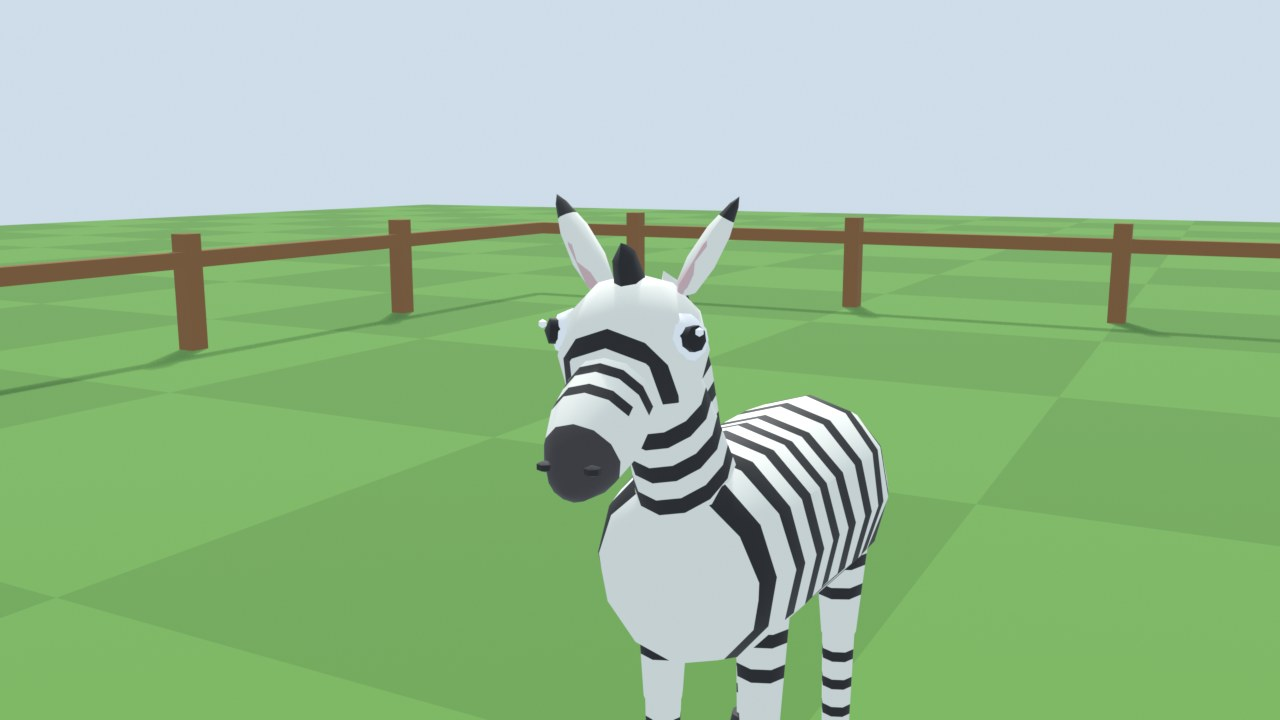
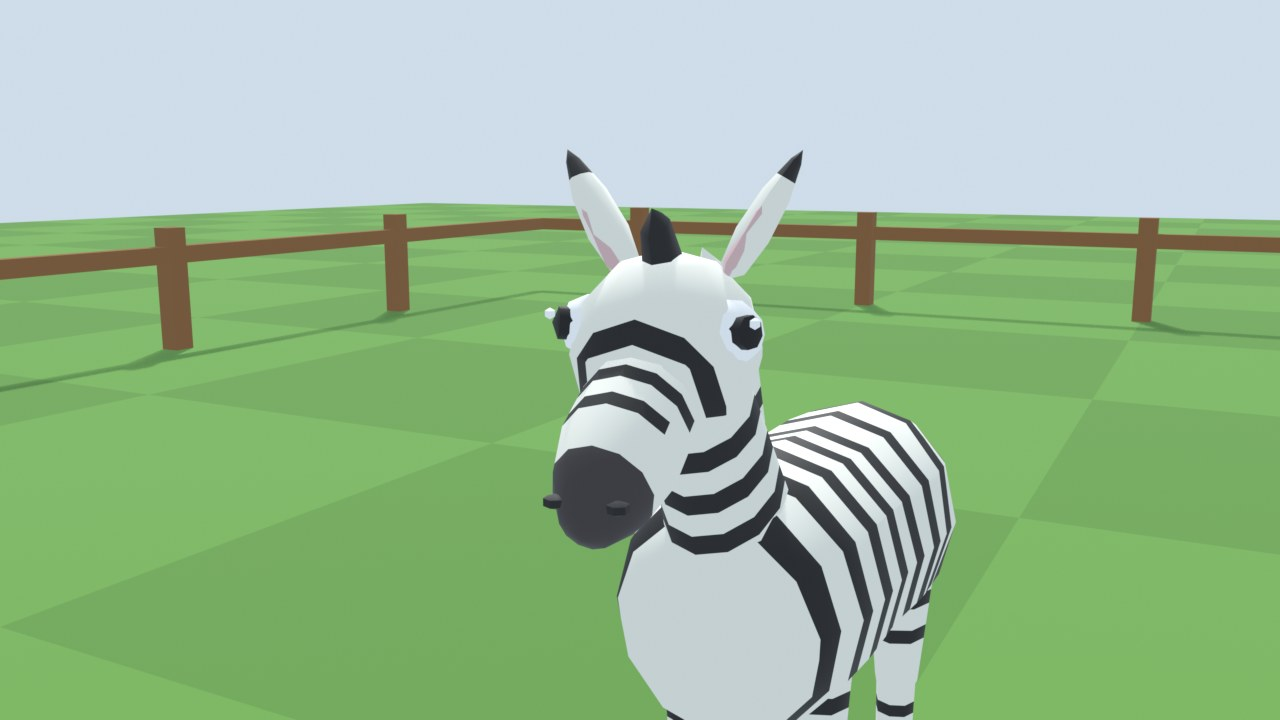
Add an expressive elephant to zoo-animals with a jointed trunk (#599)
The zoo_animals recipe gains a cartoon elephant: a big round body, column
legs with cream toenails, a domed head with tusks, fanned pink-fronted ears
and a two-joint trunk (trunk, trunk_tip), a species joint the profile allows.
Its feed clip reaches the trunk to the grass and curls food to the mouth;
rest lies on folded legs with the trunk on the grass. It ships as
zoo.animal.elephant/expressive.

The review face shot is now framed by the head mesh's own size, so every
animal's face fills the frame alike. The Blender suite accepts each
species' own extra joints.

Changed region(s): [[0.0, 0.2139, 1.0, 1.0], [0.0, 0.5194, 0.0625, 0.55]]

diff --git a/test/blender/zoo-animals/zoo-animals.test.ts b/test/blender/zoo-animals/zoo-animals.test.ts
@@ -1,5 +1,5 @@
 // The zoo-animals release (#128, #589; docs/zoo-animals.md): Zoo's pinned zebra and giraffe stay as authored, and
-// the expressive zebra, giraffe and tiger built by adapters/blender/zoo_animals.py join them as the `expressive` variant, with in-place
+// the expressive zebra, giraffe, tiger and elephant built by adapters/blender/zoo_animals.py join them as the `expressive` variant, with in-place
 // idle, walk, feed and rest clips whose legs swing about the animal's side axis. The build replays to the same tar.
 // It skips unless ASSET_TOOLING_BLENDER names Blender 5.2.2 and the two canonical Zoo sources are hydrated.
 import test from "node:test";
@@ -35,14 +35,16 @@ test("the expressive spec runs the packaged recipe for one species, with no othe
   assert.deepEqual(spec.parameters, { blenderVersion: "5.2.2", arguments: { schemaVersion: 1, species: "zebra" } });
   assert.deepEqual(Object.keys(spec.inputs), ["script"]);
   assert.equal(spec.assetId, "zoo.animal.zebra.expressive");
-  assert.deepEqual(ZOO_EXPRESSIVE_ANIMALS.map((entry) => entry.key), ["zoo.animal.zebra", "zoo.animal.giraffe", "zoo.animal.tiger"]);
+  assert.deepEqual(ZOO_EXPRESSIVE_ANIMALS.map((entry) => entry.key), ["zoo.animal.zebra", "zoo.animal.giraffe", "zoo.animal.tiger", "zoo.animal.elephant"]);
 });
 
-/** Per animal: its full-size height and length (m), its triangle budget and one colour of its coat (linear COLOR_0). */
-const EXPECTED: Record<string, { height: [number, number]; length: [number, number]; triangles: number; coat: string; coatName: string }> = {
+/** Per animal: its full-size height and length (m), its triangle budget, one colour of its coat (linear COLOR_0) and any
+ * joints of its own beyond the shared ones. */
+const EXPECTED: Record<string, { height: [number, number]; length: [number, number]; triangles: number; coat: string; coatName: string; joints?: string[] }> = {
   "zoo.animal.zebra": { height: [1.4, 1.9], length: [1.4, 2], triangles: 4500, coat: "0.01,0.01", coatName: "the black stripes" },
   "zoo.animal.giraffe": { height: [3.2, 3.9], length: [1.9, 2.6], triangles: 6000, coat: "0.64,0.23", coatName: "the tan patches" },
   "zoo.animal.tiger": { height: [1.0, 1.5], length: [1.7, 2.5], triangles: 5500, coat: "0.91,0.23", coatName: "the orange coat" },
+  "zoo.animal.elephant": { height: [1.9, 2.7], length: [2.6, 3.5], triangles: 5000, coat: "0.32,0.35", coatName: "the grey skin", joints: ["trunk", "trunk_tip"] },
 };
 
 /** The rotation axis of a quaternion in the leg's channel, or null when it barely turns. */
@@ -54,7 +56,8 @@ function axisOf([x, y, z]: number[]): number[] | null {
 function checkExpressive(document: Document, label: string) {
   const observations = assertQuadrupedRigid(document, label);
   const gltf = document.getRoot();
-  assert.deepEqual(gltf.listNodes().map((node) => node.getName()).sort(), JOINTS, `${label}: the joints`);
+  const expected = EXPECTED[label.split("/")[0]!]!;
+  assert.deepEqual(gltf.listNodes().map((node) => node.getName()).sort(), [...JOINTS, ...(expected.joints ?? [])].sort(), `${label}: the joints`);
   assert.deepEqual(gltf.listAnimations().map((clip) => clip.getName()).sort(), CLIPS, `${label}: idle, walk, feed and rest`);
   assert.deepEqual(gltf.listMaterials().map((material) => material.getName()), ["zoo-animal"], `${label}: one shared material`);
   assert.equal(gltf.listTextures().length, 0, `${label}: no textures`);
@@ -67,7 +70,6 @@ function checkExpressive(document: Document, label: string) {
     assert.equal(primitive.getMaterial()?.getAlphaMode(), "OPAQUE");
   }
   // coat colours, muzzle or nose, inner ear, hoof, eye white and pupil
-  const expected = EXPECTED[label.split("/")[0]!]!;
   assert.ok(palette.size >= 6, `${label}: COLOR_0 holds ${palette.size} colours`);
   assert.ok([...palette].some((colour) => colour.startsWith(expected.coat)), `${label}: COLOR_0 has ${expected.coatName}`);
   assert.ok(observations.triangles < expected.triangles, `${label}: ${observations.triangles} triangles`);
@@ -114,7 +116,7 @@ test("zoo-animals builds the old members unchanged and the expressive animals, r
     await verifyAssetBundleTar(await readFile(built.tar), { sha256: built.tarSha256, ref: built.exportRef });
     const manifest = (await verifyAssetBundle(built.bundleDir, built.exportRef, { profile: "gltf-resources-v1" })).manifest as GltfResourcesBundleManifest;
     assert.deepEqual(manifest.assets.map((item) => `${item.key}/${item.variant}`).sort(),
-      ["zoo.animal.giraffe/default", `zoo.animal.giraffe/${ZOO_EXPRESSIVE_VARIANT}`, `zoo.animal.tiger/${ZOO_EXPRESSIVE_VARIANT}`,
+      [`zoo.animal.elephant/${ZOO_EXPRESSIVE_VARIANT}`, "zoo.animal.giraffe/default", `zoo.animal.giraffe/${ZOO_EXPRESSIVE_VARIANT}`, `zoo.animal.tiger/${ZOO_EXPRESSIVE_VARIANT}`,
         "zoo.animal.zebra/default", `zoo.animal.zebra/${ZOO_EXPRESSIVE_VARIANT}`]);
 
     const descriptor = JSON.parse(await readFile(path.join(outDir, ZOO_ANIMALS_DESCRIPTOR_FILE), "utf8"));

diff --git a/scripts/build-zoo-animals.ts b/scripts/build-zoo-animals.ts
@@ -38,6 +38,7 @@ export const ZOO_EXPRESSIVE_ANIMALS = [
   { animal: "zebra", key: "zoo.animal.zebra", issue: 589 },
   { animal: "giraffe", key: "zoo.animal.giraffe", issue: 596 },
   { animal: "tiger", key: "zoo.animal.tiger", issue: 590 },
+  { animal: "elephant", key: "zoo.animal.elephant", issue: 599 },
 ] as const;
 export const ZOO_ANIMALS_RECIPE = "adapters/blender/zoo_animals.py";
 

diff --git a/adapters/blender/zoo_animals.py b/adapters/blender/zoo_animals.py
@@ -37,7 +37,7 @@ import bmesh
 import bpy
 from mathutils import Euler, Matrix, Quaternion, Vector
 
-SPECIES = ("zebra", "giraffe", "tiger")
+SPECIES = ("zebra", "giraffe", "tiger", "elephant")
 FPS = 30
 KEY_STEP = 2  # frames between keys; every key is linear
 SHARP_ANGLE = math.radians(50)
@@ -61,6 +61,10 @@ PALETTE = {
     "tiger-white": (0.98, 0.95, 0.9),
     "nose-pink": (0.9, 0.52, 0.55),
     "eye-amber": (0.95, 0.72, 0.18),
+    "elephant-grey": (0.6, 0.63, 0.7),
+    "elephant-dark": (0.43, 0.45, 0.52),
+    "toenail": (0.93, 0.9, 0.82),
+    "tusk": (0.98, 0.96, 0.88),
 }
 
 
@@ -554,7 +558,114 @@ def build_tiger(collection):
     return root
 
 
-BUILDERS = {"zebra": build_zebra, "giraffe": build_giraffe, "tiger": build_tiger}
+# ---------------------------------------------------------------- elephant
+
+ELEPHANT = {
+    "body": (0.0, 0.0, 1.35), "neck": (0.75, 0.0, 1.55), "tail": (-0.9, 0.0, 1.55),
+    "hips": {"leg_0": (-0.55, -0.36, 1.12), "leg_1": (-0.55, 0.36, 1.12), "leg_2": (0.55, -0.36, 1.15), "leg_3": (0.55, 0.36, 1.15)},
+    "upper": 0.5, "foot": 0.06,  # the foot pad's centre above the grass
+    "neck_dir": (1, 0, 0.4), "neck_length": 0.18,
+    "trunk": (0.4, 0, -0.18), "trunk_dirs": ((0.25, 0, -1), (0.3, 0, -1)), "trunk_lengths": (0.5, 0.45),
+}
+
+
+def build_elephant(collection):
+    g = ELEPHANT
+    root = bpy.data.objects.new("animal_root", None)
+    root.empty_display_size = 0.5
+    collection.objects.link(root)
+
+    # Body: a big round barrel, a little higher at the shoulders.
+    body = Part("body", g["body"])
+    barrel = [(0, -0.95), (0.4, -0.88), (0.6, -0.72), (0.7, -0.45), (0.72, -0.15), (0.72, 0.15), (0.73, 0.42), (0.66, 0.7),
+              (0.42, 0.88), (0, 0.95)]
+    body.lathe("elephant-grey", barrel, g["body"], direction=(1, 0, 0.06), scale=(0.9, 0.85, 1), segments=16)
+    body = body.finish(collection, root)
+
+    # Legs: thick columns on round feet with three cream toenails at the front.
+    for leg, hip in g["hips"].items():
+        front = leg in ("leg_2", "leg_3")
+        hip = Vector(hip)
+        upper = Part(leg, hip)
+        upper.lathe("elephant-grey", capsule(0.27, 0.22, g["upper"], cap=0.04), hip, segments=10)
+        upper = upper.finish(collection, body)
+        knee = hip - Vector((0, 0, g["upper"]))
+        lower = Part(f"{leg}_lower", knee)
+        lower.lathe("elephant-grey", capsule(0.22, 0.23, knee.z - 0.2, 2), knee, segments=10)  # its round end sits in the foot
+        lower.lathe("elephant-grey", ball(0.22, 3), knee, segments=10)  # a round knee
+        lower.lathe("elephant-dark", [(0, 0), (0.24, 0), (0.25, 0.04), (0.24, 0.11), (0, 0.11)], (knee.x, knee.y, 0.0), segments=12)
+        for k in (-1, 0, 1):
+            nail = Vector((knee.x + 0.21 * math.cos(math.radians(32 * k)), knee.y + 0.21 * math.sin(math.radians(32 * k)), 0.06))
+            lower.lathe("toenail", ball(0.065, 3), nail, scale=(0.7, 1.0, 0.8), segments=8)
+        lower.finish(collection, upper)
+
+    # Tail: a thin rope with a dark tuft.
+    tail = Part("tail", g["tail"])
+    tail.lathe("elephant-grey", capsule(0.045, 0.03, 0.55, 2), g["tail"], direction=(0.3, 0, 1), segments=7)
+    tail.lathe("elephant-dark", ball(0.06, 4), (-1.07, 0, 1.0), direction=(-0.3, 0, -1), scale=(0.8, 0.8, 1.7), segments=8)
+    tail.finish(collection, body)
+
+    # Neck: a short stub between the shoulders and the big head.
+    neck_dir = Vector(g["neck_dir"]).normalized()
+    n0 = Vector(g["neck"])
+    neck = Part("neck", n0)
+    neck.lathe("elephant-grey", capsule(0.48, 0.45, g["neck_length"], 3), n0, direction=-neck_dir, segments=12)
+    neck = neck.finish(collection, body)
+
+    # Head: big and domed, with small ivory tusks and a dark mouth line under the trunk.
+    hp = n0 + neck_dir * g["neck_length"]
+    head = Part("head", hp)
+    cranium = hp + Vector((0.25, 0, 0.12))
+    head.lathe("elephant-grey", ball(0.55, 7), cranium, scale=(0.9, 1.0, 0.95), segments=16)
+    head.lathe("elephant-grey", ball(0.3, 5), cranium + Vector((0.3, 0, -0.12)), scale=(0.9, 1.0, 0.9), segments=12)  # the cheeks
+    for side in (-1, 1):
+        root_t = cranium + Vector((0.42, side * 0.17, -0.25))
+        head.lathe("tusk", capsule(0.05, 0.02, 0.22, 2, cap=0.3), root_t, direction=-Vector((1, side * 0.2, 0.35)), segments=8)
+    head.lathe("elephant-dark", ball(0.07, 3), cranium + Vector((0.43, 0, -0.33)), scale=(0.8, 1.4, 0.4), segments=8)  # mouth
+    head = head.finish(collection, neck)
+
+    # Trunk: two joints, so it can sway, curl and lift food, with soft wrinkle rings and a darker tip.
+    t0 = cranium + Vector(g["trunk"])
+    d1, d2 = (Vector(d).normalized() for d in g["trunk_dirs"])
+    l1, l2 = g["trunk_lengths"]
+    trunk = Part("trunk", t0)
+    trunk.lathe("elephant-grey", capsule(0.17, 0.13, l1, 2, cap=0.5), t0, direction=-d1, segments=10)
+    trunk.paint("elephant-grey", "elephant-dark", [(t0 + d1 * (0.18 + 0.12 * k), d1, 0.018) for k in range(3)])
+    trunk = trunk.finish(collection, head)
+    t1 = t0 + d1 * l1
+    tip = Part("trunk_tip", t1)
+    tip.lathe("elephant-grey", capsule(0.13, 0.105, l2, 2, cap=0.5), t1, direction=-d2, segments=10)
+    tip.lathe("elephant-grey", ball(0.13, 4), t1, segments=10)
+    tip.paint("elephant-grey", "elephant-dark", [(t1 + d2 * (0.1 + 0.11 * k), d2, 0.016) for k in range(3)])
+    tip.lathe("elephant-dark", ball(0.12, 4), t1 + d2 * (l2 + 0.03), direction=d2, scale=(1, 1, 0.55), segments=10)
+    tip.finish(collection, trunk)
+
+    for side, name in ((1, "left"), (-1, "right")):
+        # big round ears fanned out to the side, their pink fronts facing forwards
+        base = cranium + Vector((-0.02, side * 0.42, 0.12))
+        ear = Part(f"ear_{name}", base)
+        normal = Vector((0.8, side * 0.45, 0.0)).normalized()
+        out = Vector((-0.45, side * 0.8, 0.0)).normalized()
+        centre = base + out * 0.36 + Vector((0, 0, -0.1))
+        ear.lathe("elephant-grey", ball(1.0, 5), centre, direction=normal, scale=(0.45, 0.45, 0.07), segments=14)
+        ear.lathe("elephant-grey", ball(1.0, 4), centre + Vector((0, 0, -0.22)) - out * 0.06, direction=normal,
+                  scale=(0.3, 0.3, 0.06), segments=12)  # the lower lobe
+        ear.lathe("ear-inner", ball(1.0, 4), centre + normal * 0.03 + Vector((0, 0, -0.04)), direction=normal,
+                  scale=(0.34, 0.34, 0.04), segments=12)
+        ear.finish(collection, head)
+
+        eye_c = cranium + Vector((0.4, side * 0.3, 0.1))
+        eye = Part(f"eye_{name}", eye_c)
+        look = Vector((1.0, side * 0.55, 0.05)).normalized()
+        eye.lathe("eye-white", ball(0.085, 4), eye_c, direction=look, scale=(1, 1, 0.8), segments=10)
+        eye.lathe("eye-pupil", ball(0.055, 3), eye_c + look * 0.05, direction=look, scale=(1, 1, 0.55), segments=10)
+        eye.lathe("eye-white", ball(0.016, 3), eye_c + look * 0.085 + Vector((0, 0, 0.025)), segments=6)
+        eye.finish(collection, head)
+
+    return root
+
+
+BUILDERS = {"zebra": build_zebra, "giraffe": build_giraffe, "tiger": build_tiger, "elephant": build_elephant}
 
 
 # ---------------------------------------------------------------- clips
@@ -587,8 +698,8 @@ def leg_cycle(u, front):
 
 
 # Lying down (rest): how far the body lowers, and the folded knee's centre above the grass, per species.
-LYING_DROP = {"zebra": -0.4, "giraffe": -1.1, "tiger": -0.3}
-KNEE_HEIGHT = {"zebra": 0.075, "giraffe": 0.1, "tiger": 0.14}
+LYING_DROP = {"zebra": -0.4, "giraffe": -1.1, "tiger": -0.3, "elephant": -0.6}
+KNEE_HEIGHT = {"zebra": 0.075, "giraffe": 0.1, "tiger": 0.14, "elephant": 0.26}
 
 
 def fold_legs(pose, hips, upper_length, drop, knee_height):
@@ -852,10 +963,114 @@ def tiger_rest(t, duration):
     return pose
 
 
+def ears_open(left, right=None):
+    """Elephant ears fanned forwards by ``left`` (and ``right``) radians: each turns about its root's vertical."""
+    return {"ear_left.r": (0, 0, -left), "ear_right.r": (0, 0, left if right is None else right)}
+
+
+def keyed(u, keys):
+    """Smoothly interpolate ``keys`` = [(u, value or tuple), ...] (ascending u in [0, 1], first and last equal)."""
+    for (u0, v0), (u1, v1) in zip(keys, keys[1:]):
+        if u0 <= u <= u1:
+            s = smooth((u - u0) / (u1 - u0)) if u1 > u0 else 1.0
+            return tuple(a + (b - a) * s for a, b in zip(v0, v1))
+    return keys[-1][1]
+
+
+def elephant_idle(t, duration):
+    w = 2 * math.pi * t / duration
+    blink = pulse(t, 4.1, 0.25)
+    flap = 0.5 - 0.5 * math.cos(2 * w)
+    pose = {
+        "body.t": (0, 0, 0.01 * (1 - math.cos(2 * w))),
+        "body.r": (math.radians(1.2) * math.sin(w), 0, 0),
+        "neck.r": (0, math.radians(2) * math.sin(w), 0),
+        "head.r": (math.radians(3) * math.sin(w), math.radians(-3) * math.sin(2 * w), math.radians(6) * math.sin(w + 0.5)),
+        # the trunk sways from side to side, its tip curling and uncurling
+        "trunk.r": (math.radians(12) * math.sin(w), math.radians(-6) * math.sin(2 * w), 0),
+        "trunk_tip.r": (math.radians(6) * math.sin(w - 0.6), math.radians(30) * (0.5 + 0.5 * math.sin(2 * w - 1.0)), 0),
+        "eye_left.s": (1, 1, 1 - 0.88 * blink), "eye_right.s": (1, 1, 1 - 0.88 * blink),
+        "tail.r": (math.radians(20) * math.sin(w * 2), math.radians(-5), 0),
+    }
+    pose.update(ears_open(math.radians(22) * flap, math.radians(22) * (0.5 - 0.5 * math.cos(2 * w - 0.5))))
+    return pose
+
+
+def elephant_walk(t, duration):
+    u = t / duration
+    pose = {}
+    phases = {"leg_1": 0.0, "leg_3": 0.25, "leg_0": 0.5, "leg_2": 0.75}  # a slow lateral-sequence amble
+    for leg, phase in phases.items():
+        swing, fold = leg_cycle((u + 1 - phase) % 1, leg in ("leg_2", "leg_3"))
+        pose[f"{leg}.r"] = (0, -swing * (0.7 if leg in ("leg_2", "leg_3") else 0.58), 0)
+        pose[f"{leg}_lower.r"] = (0, fold * (0.55 if leg in ("leg_2", "leg_3") else 0.9), 0)
+    w = 2 * math.pi * u
+    pose.update({
+        "body.t": (0, 0, 0.042 + 0.01 * (1 - math.cos(2 * w))),  # the wide feet tip their rims as they swing
+        "body.r": (math.radians(1) * math.sin(w), math.radians(0.8) * math.sin(2 * w), math.radians(1.5) * math.sin(w)),
+        "neck.r": (0, math.radians(3) * math.sin(2 * w - 0.6), 0),
+        "head.r": (0, math.radians(-2) * math.sin(2 * w - 1.0), math.radians(2) * math.sin(w)),
+        # the trunk swings like a pendulum behind each stride
+        "trunk.r": (math.radians(8) * math.sin(w - 0.8), math.radians(10) * math.sin(2 * w - 1.2), 0),
+        "trunk_tip.r": (math.radians(6) * math.sin(w - 1.4), math.radians(12) + math.radians(10) * math.sin(2 * w - 1.8), 0),
+        "eye_left.s": (1, 1, 1), "eye_right.s": (1, 1, 1),
+        "tail.r": (math.radians(14) * math.sin(w), math.radians(-8), 0),
+    })
+    pose.update(ears_open(math.radians(10) + math.radians(8) * math.sin(2 * w)))
+    return pose
+
+
+ELEPHANT_FEED = [  # u, (neck, trunk, trunk tip, head) pitch in degrees: reach down, pick, lift and curl to the mouth, chew
+    (0.0, (0, 0, 10, 0)), (0.28, (22, -24, -4, 10)), (0.4, (22, -24, 22, 10)), (0.62, (-4, 46, 135, -10)),
+    (0.82, (-4, 46, 135, -10)), (1.0, (0, 0, 10, 0)),
+]
+
+
+def elephant_feed(t, duration):
+    """The trunk reaches down to the grass, picks some up, curls it to the mouth, and the elephant chews."""
+    u = t / duration
+    w = 2 * math.pi * u
+    neck, trunk, tip, head = (math.radians(v) for v in keyed(u, ELEPHANT_FEED))
+    chew = pulse(u, 0.6, 0.3) * math.sin(6 * w)
+    pose = {
+        "body.t": (0, 0, 0.006 * (1 - math.cos(w))),
+        "body.r": (0, 0, 0),
+        "neck.r": (0, neck, 0),
+        "head.r": (math.radians(2) * chew, head + math.radians(3) * chew, 0),
+        "trunk.r": (0, trunk, 0),
+        "trunk_tip.r": (0, tip, 0),
+        "eye_left.s": (1, 1, 1 - 0.5 * pulse(u, 0.6, 0.3)), "eye_right.s": (1, 1, 1 - 0.5 * pulse(u, 0.6, 0.3)),
+        "tail.r": (math.radians(22) * math.sin(w * 2), math.radians(-5), 0),
+    }
+    pose.update(ears_open(math.radians(14) * (0.5 - 0.5 * math.cos(2 * w))))
+    return pose
+
+
+def elephant_rest(t, duration):
+    """Lying on folded legs, the trunk laid out on the grass in front with its tip curled, eyes shut, ears flat."""
+    w = 2 * math.pi * t / duration
+    breath = 0.5 - 0.5 * math.cos(w)
+    drop = LYING_DROP["elephant"]
+    pose = {
+        "body.t": (0, 0, drop + 0.012 * breath),
+        "body.r": (0, 0, 0),
+        "neck.r": (0, math.radians(4) + math.radians(1.5) * breath, 0),
+        "head.r": (0, math.radians(4), math.radians(-4)),
+        "trunk.r": (0, math.radians(-24), 0),
+        "trunk_tip.r": (0, math.radians(-26), math.radians(25) + math.radians(6) * pulse(t, 3.0, 0.8)),
+        "eye_left.s": (1, 1, 0.1), "eye_right.s": (1, 1, 0.1),
+        "tail.r": (math.radians(-10), math.radians(-50), 0),
+    }
+    pose.update(ears_open(math.radians(-6) + math.radians(10) * pulse(t, 2.2, 0.6), math.radians(-6)))
+    fold_legs(pose, ELEPHANT["hips"], lambda leg: ELEPHANT["upper"], drop, KNEE_HEIGHT["elephant"])
+    return pose
+
+
 POSES = {
     "zebra": {"idle": (pose_idle, 4.0), "walk": (pose_walk, 1.2), "feed": (pose_feed, 3.0), "rest": (pose_rest, 5.0)},
     "giraffe": {"idle": (giraffe_idle, 5.0), "walk": (giraffe_walk, 1.6), "feed": (giraffe_feed, 3.0), "rest": (giraffe_rest, 6.0)},
     "tiger": {"idle": (tiger_idle, 5.0), "walk": (tiger_walk, 1.1), "feed": (tiger_feed, 3.0), "rest": (tiger_rest, 6.0)},
+    "elephant": {"idle": (elephant_idle, 6.0), "walk": (elephant_walk, 1.5), "feed": (elephant_feed, 4.0), "rest": (elephant_rest, 6.0)},
 }
 
 

diff --git a/adapters/blender/zoo_animals_review.py b/adapters/blender/zoo_animals_review.py
@@ -200,7 +200,10 @@ def main():
     show(groups, {"idle-0"})
     bpy.context.view_layer.update()
     head = next(o for o in groups["idle-0"][1] if o.name.split(".")[0] == "head")
-    shoot(scene, camera, "face.jpg", head.matrix_world.translation, 0.75, yaw=118, pitch=10)
+    face = [head.matrix_world @ v.co for v in head.data.vertices]
+    size = max(max(p[i] for p in face) - min(p[i] for p in face) for i in range(3))
+    centre = Vector([(max(p[i] for p in face) + min(p[i] for p in face)) / 2 for i in range(3)])
+    shoot(scene, camera, "face.jpg", centre, 3.2 * size, yaw=118, pitch=10)  # framed by the head's own size
 
     # Every clip's poses in a row, seen from the animal's right side.
     for clip in ("idle", "walk", "feed", "rest"):

diff --git a/docs/zoo-animals.md b/docs/zoo-animals.md
@@ -1,10 +1,10 @@
 # Expressive Zoo animals
 
-This is the recipe for Zoo's finished cartoon animals ([#589](https://github.com/moritzbrantner/asset-tooling/issues/589), consumer [zoo#112](https://github.com/moenarch-games/zoo/issues/112) and [zoo#142](https://github.com/moenarch-games/zoo/issues/142)). The animals are the **zebra**, the **giraffe** and the **tiger**. The zebra and giraffe replace Zoo's deprecated generator output, whose zebra has a block body, a bear-like head and a walk that splays its legs sideways ([quadruped-rigid.md](quadruped-rigid.md#what-the-viewer-shows)).
+This is the recipe for Zoo's finished cartoon animals ([#589](https://github.com/moritzbrantner/asset-tooling/issues/589), consumer [zoo#112](https://github.com/moenarch-games/zoo/issues/112) and [zoo#142](https://github.com/moenarch-games/zoo/issues/142)). The animals are the **zebra**, the **giraffe**, the **tiger** and the **elephant**. The zebra and giraffe replace Zoo's deprecated generator output, whose zebra has a block body, a bear-like head and a walk that splays its legs sideways ([quadruped-rigid.md](quadruped-rigid.md#what-the-viewer-shows)).
 
 - **Source:** [`adapters/blender/zoo_animals.py`](../adapters/blender/zoo_animals.py), an original scripted Blender recipe in this repository. It has no imported meshes, no third-party assets, no textures and no randomness. Zoo's generator is not ported.
 - **Rig:** the shared [`quadruped-rigid`](quadruped-rigid.md) profile. Named transform nodes pivot at their joints and rigid parts hang under them, with no skin.
-- **Release:** the existing rolling `zoo-animals` release, as the variant `expressive` of the keys `zoo.animal.zebra`, `zoo.animal.giraffe` and `zoo.animal.tiger`. Zoo's own zebra and giraffe stay unchanged as the `default` variant, so a consumer of a `default` member sees the same model.
+- **Release:** the existing rolling `zoo-animals` release, as the variant `expressive` of the keys `zoo.animal.zebra`, `zoo.animal.giraffe`, `zoo.animal.tiger` and `zoo.animal.elephant`. Zoo's own zebra and giraffe stay unchanged as the `default` variant, so a consumer of a `default` member sees the same model.
 
 ## Build
 
@@ -98,6 +98,28 @@ The length includes the tail.
 
 The Zoo activity mapping is the zebra's. Predator care, welfare and habitat rules stay with Zoo (zoo#138).
 
+## The elephant
+
+The fourth animal ([#599](https://github.com/moritzbrantner/asset-tooling/issues/599)) is new to the release too, so `zoo.animal.elephant` has only the `expressive` variant. It adds two joints of its own, which the profile allows: `head > trunk > trunk_tip`, so the trunk can sway, curl and carry food.
+
+| Key / variant | Size (L × H × W, m) | Triangles | Parts | Materials |
+| --- | --- | --- | --- | --- |
+| `zoo.animal.elephant` / `expressive` | 3.06 × 2.26 × 2.23 | 3,912 | 18 | 1 |
+
+The length includes the trunk and the width the fanned ears.
+
+- **Look:** a big round body, thick column legs on dark round feet with three cream toenails each, a short neck under a big domed head with full cheeks, small ivory tusks, large round eyes with highlights, and big round ears fanned out to the sides with pink fronts. The trunk carries soft wrinkle rings and a darker tip; the tail ends in a dark tuft.
+- **Clips:**
+
+| Clip | Seconds | What it shows |
+| --- | --- | --- |
+| `idle` | 6.0 | Slow ear flaps, the trunk swaying from side to side and its tip curling, a nod, a blink and a tail swish |
+| `walk` | 1.5 | A slow lateral-sequence amble: shorter swings for the wide feet, the trunk swinging like a pendulum and the ears flapping with the stride |
+| `feed` | 4.0 | The trunk reaches down to the grass, picks some up, curls it to the mouth, and the elephant chews (keyed phases in `ELEPHANT_FEED`) |
+| `rest` | 6.0 | Lying on folded legs (`fold_legs`), the trunk laid out on the grass in front with its tip curled, eyes shut, ears flat |
+
+The amble keeps the body about 4 cm higher than standing, because the wide foot pads tip their rims down as they swing. The Zoo activity mapping is the zebra's.
+
 ## Conventions
 
 These are the conventions of the existing `zoo-animals` members: metres, +Y up, right-handed, the animal faces **+X** and its right side is +Z, and the origin is on the ground plane under the body. The asset is presentation only; Zoo owns placement, scale, activity, gameplay and physics.
@@ -127,9 +149,10 @@ These are the conventions of the existing `zoo-animals` members: metres, +Y up, 
 ASSET_TOOLING_BLENDER=<blender 5.2.2> bun scripts/review-zoo-animals.ts --bundle .artifacts/zoo-animals/bundle --key zoo.animal.zebra --out .artifacts/zoo-review
 ASSET_TOOLING_BLENDER=<blender 5.2.2> bun scripts/review-zoo-animals.ts --bundle .artifacts/zoo-animals/bundle --key zoo.animal.giraffe --compare zoo.animal.giraffe/default --out .artifacts/zoo-review-giraffe
 ASSET_TOOLING_BLENDER=<blender 5.2.2> bun scripts/review-zoo-animals.ts --bundle .artifacts/zoo-animals/bundle --key zoo.animal.tiger --compare zoo.animal.zebra/expressive --out .artifacts/zoo-review-tiger
+ASSET_TOOLING_BLENDER=<blender 5.2.2> bun scripts/review-zoo-animals.ts --bundle .artifacts/zoo-animals/bundle --key zoo.animal.elephant --compare zoo.animal.zebra/expressive --out .artifacts/zoo-review-elephant
 ```
 
-The zebra images from the 2026-11-11 build are in [`review/zoo-animals/`](../review/zoo-animals/), the giraffe's, beside Zoo's current giraffe, in [`review/zoo-animals/giraffe/`](../review/zoo-animals/giraffe/), and the tiger's, beside the expressive zebra, in [`review/zoo-animals/tiger/`](../review/zoo-animals/tiger/):
+The zebra images are in [`review/zoo-animals/`](../review/zoo-animals/), and each later animal's in its own folder, `review/zoo-animals/<species>/`. The giraffe stands beside Zoo's current giraffe; the tiger and elephant, which Zoo has no model of, beside the expressive zebra for scale:
 
 - `park.jpg` and `watch.jpg`: an enclosure with the expressive animal idling, walking, feeding and resting, beside Zoo's current one, at a park distance (22 m) and a close animal-watch distance (6.5 m);
 - `orbit-front.jpg` and `orbit-back.jpg`: two more orbit angles;
